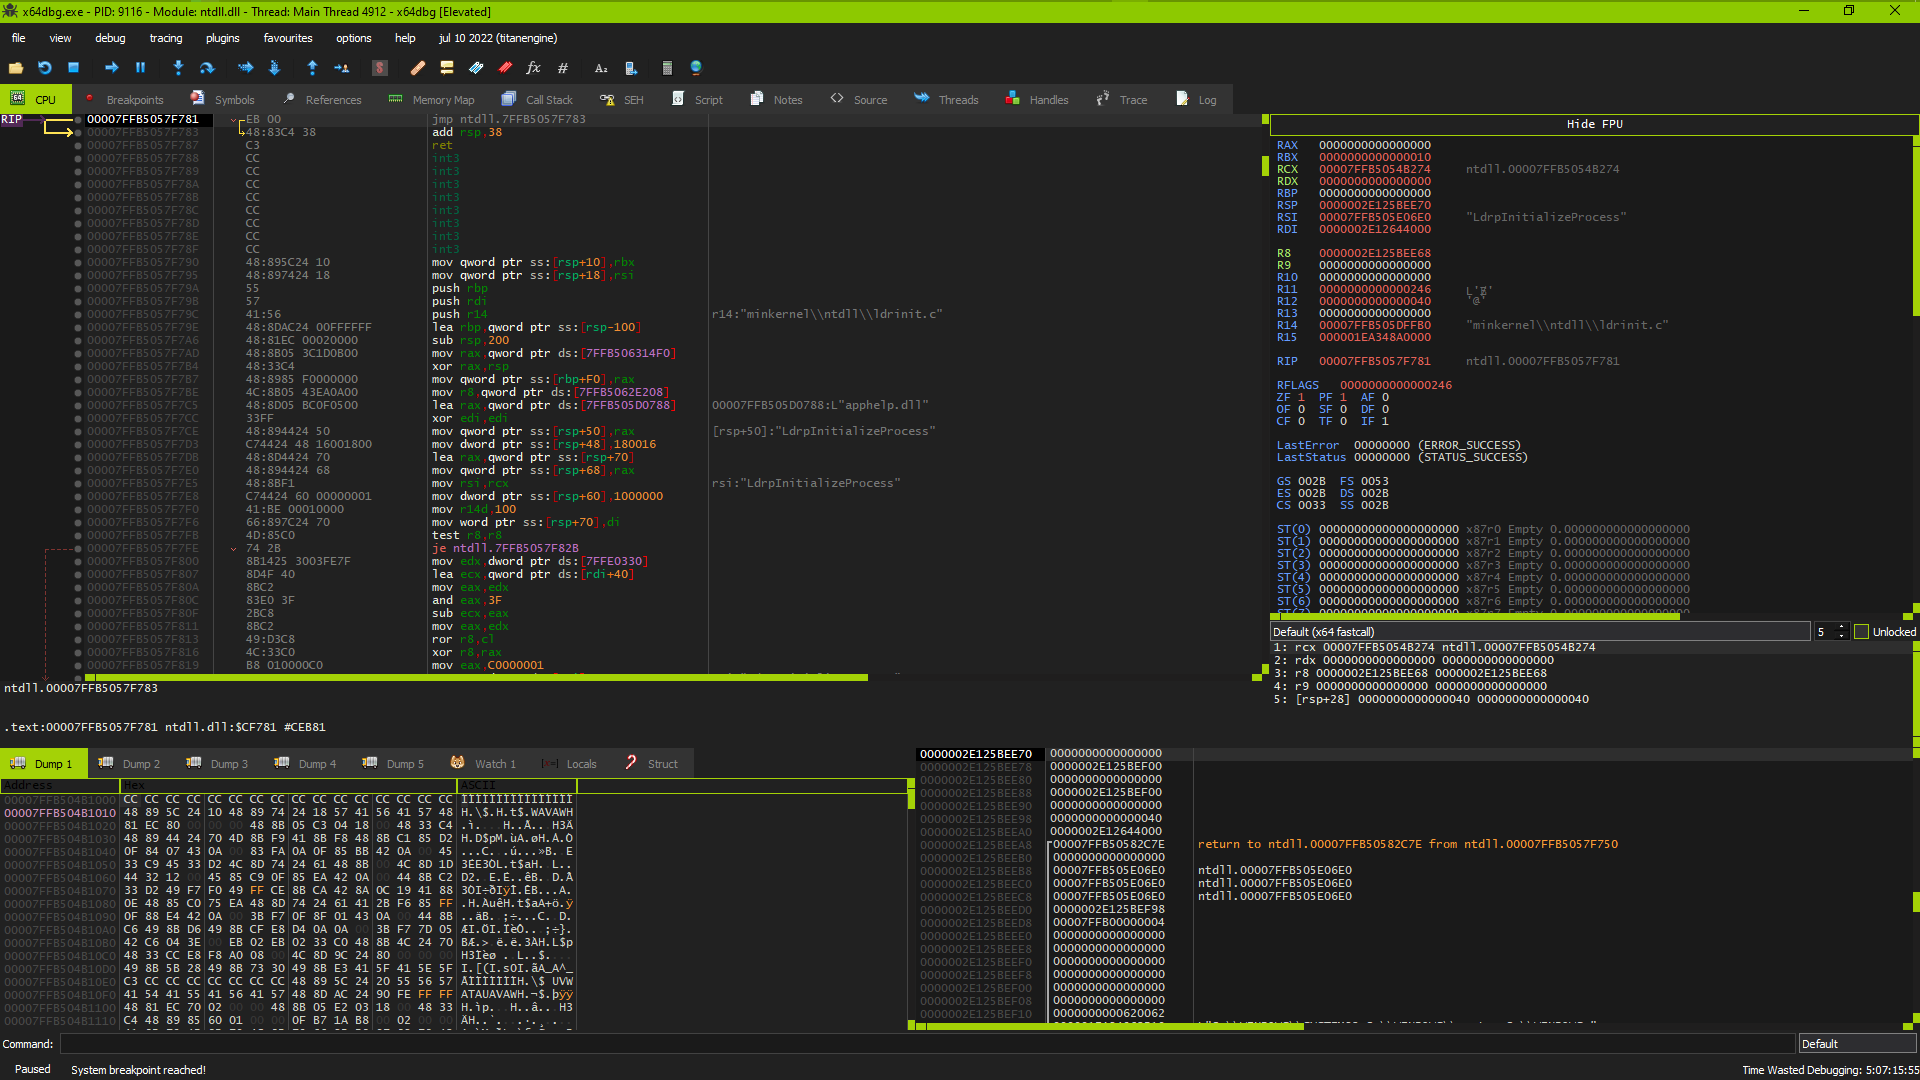
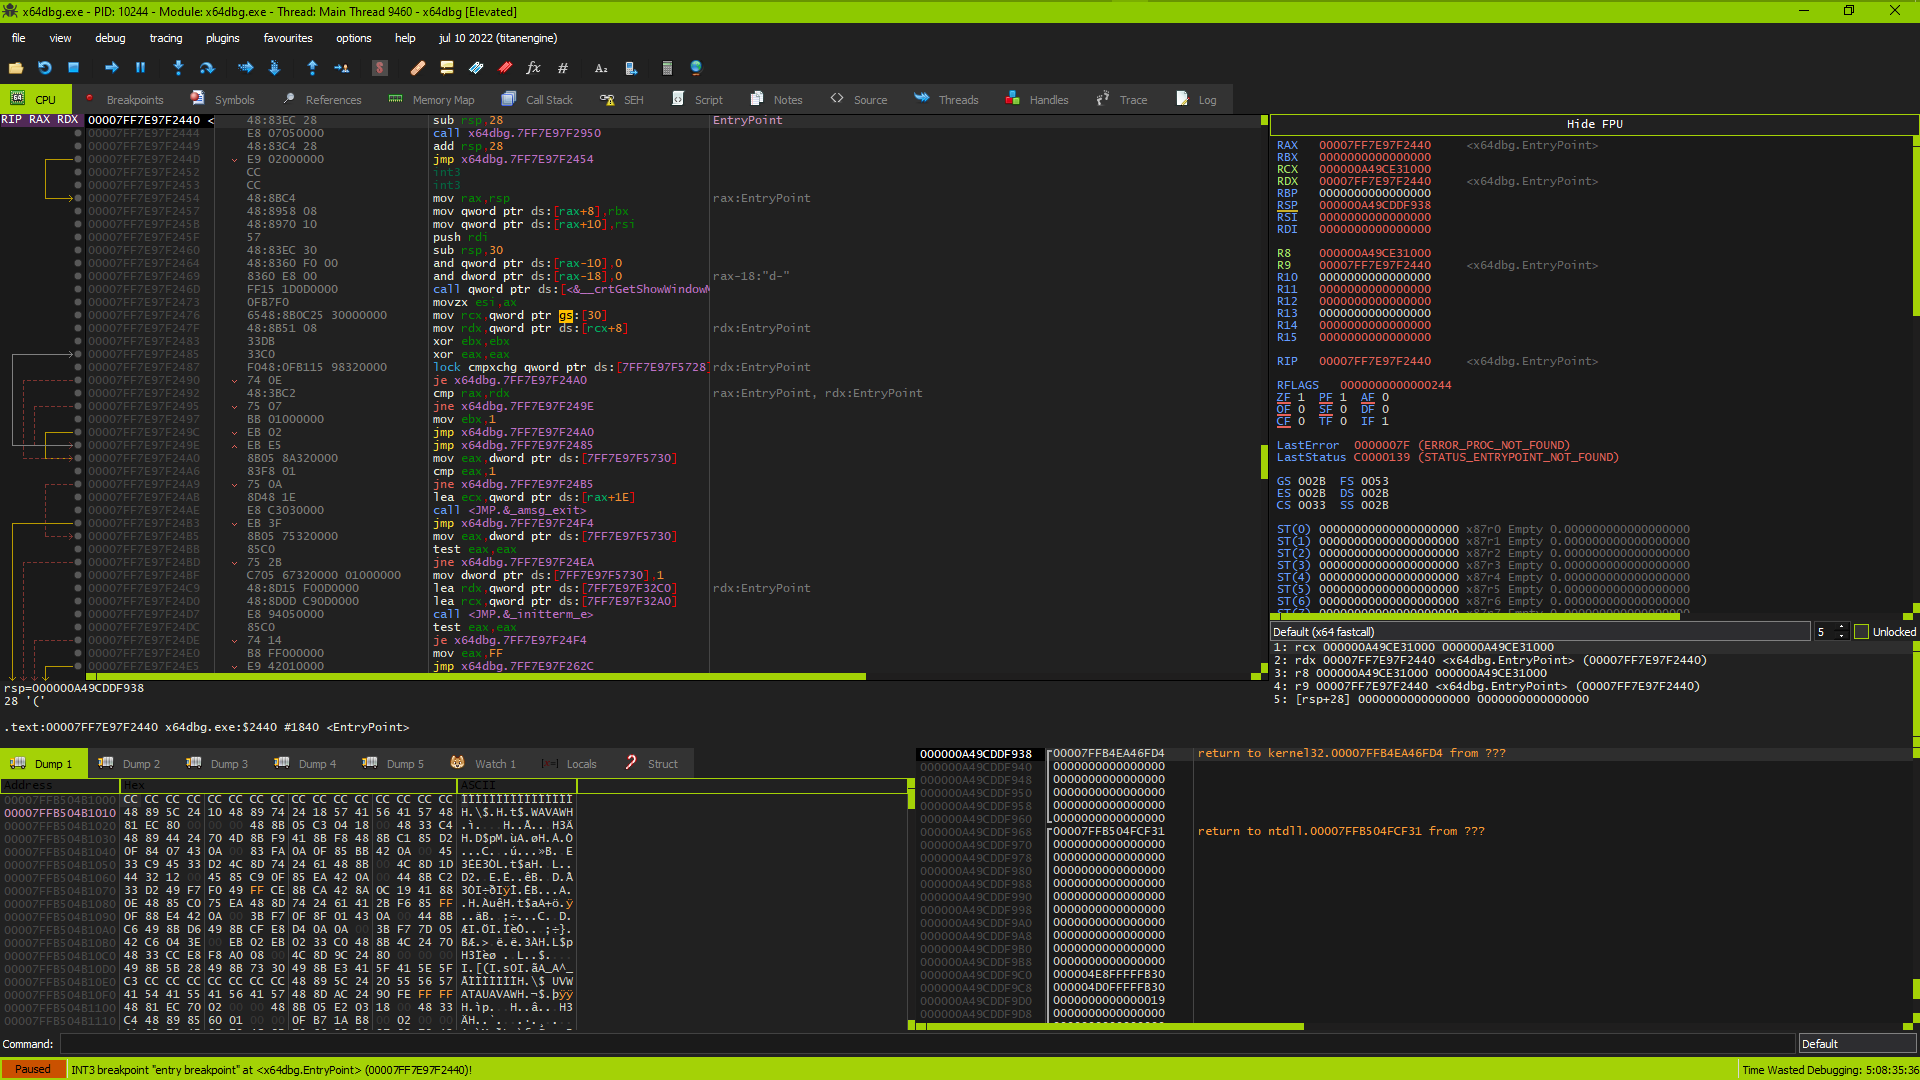
Lime Status Bar with changing status

diff --git a/Acid_Lime/style.css b/Acid_Lime/style.css
@@ -48,12 +48,38 @@ QWidget:item:selected
 }
 
 /* status bar */
-QStatusBar, QStatusBar::handle, QStatusBar::item{
-  border: none;
+QStatusBar {
+    background-color:#a4d206;
 }
 
 QStatusBar QLabel {
-    color: white;
+    background-color:#a4d206;
+    color: black;
+}
+
+QStatusBar QLabel[state="paused"] {
+    background-color:#ca5100;
+    color: black;
+}
+
+DebugStatusLabel[state="initialized"] {
+    color: black;
+    background-color: #a4d206;
+}
+
+DebugStatusLabel[state="paused"] {
+    color: black;
+    background-color: #ff0000;
+}
+
+DebugStatusLabel[state="running"] {
+    color: black;
+    background-color: #4a8f47;
+}
+
+DebugStatusLabel[state="stopped"] {
+    color: black;
+    background-color: #ff0000;
 }
 
 /* tabs bar */
